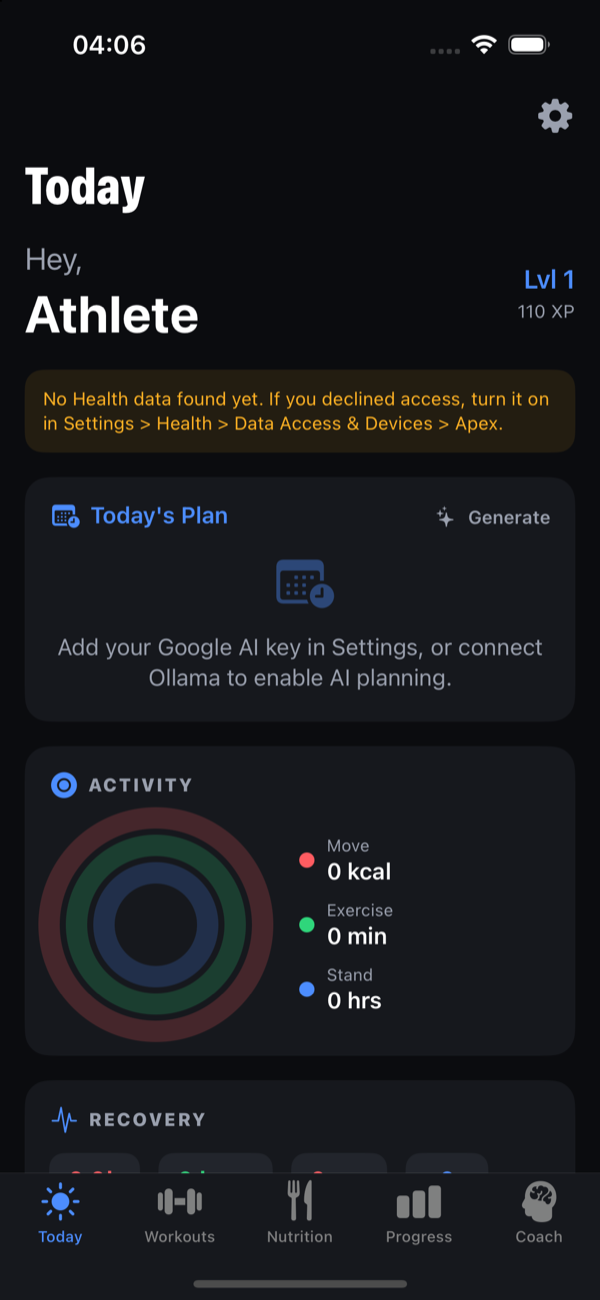
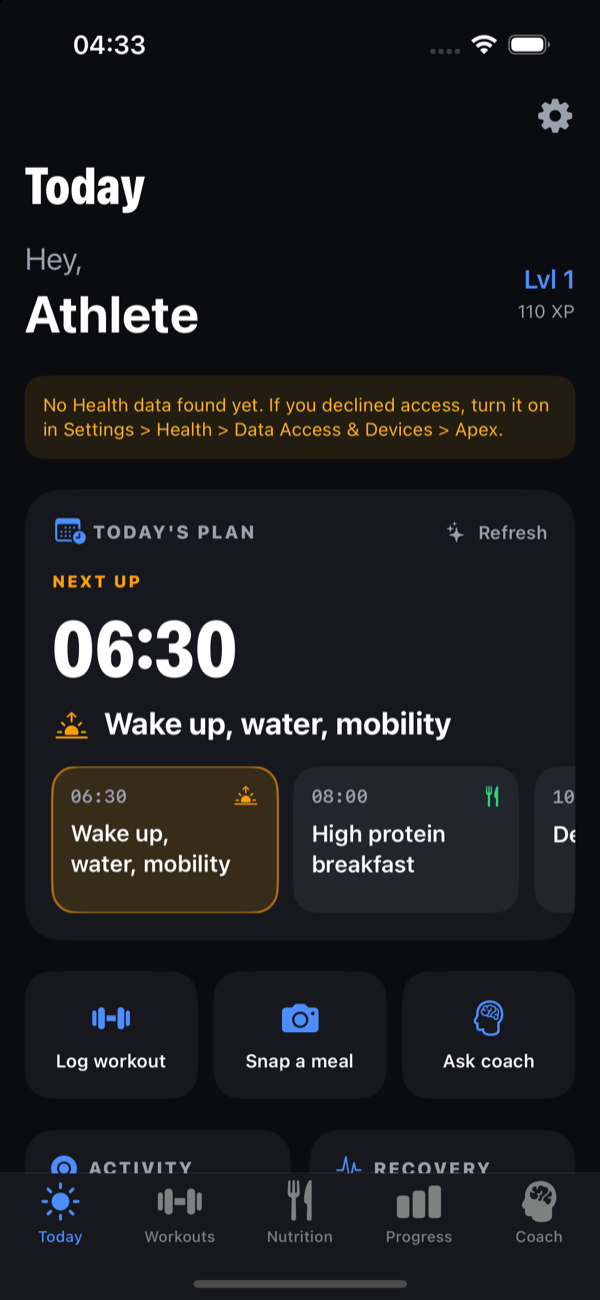
README: dashboard, provider picker, new figure and heat scale screenshots

diff --git a/README.md b/README.md
@@ -6,7 +6,7 @@ A native iOS app that combines Apple Watch health data, workout and meal logging
 
 | Tab | What the code does |
 |---|---|
-| **Today** | Activity rings, sleep / HRV / resting HR, AI-generated daily plan shown as a timeline, focus timer, today's calendar events, recent workouts and meals |
+| **Today** | A dashboard: the next block of your day with a swipeable plan, quick actions (log workout, snap a meal, ask the coach), tiles for activity, recovery, nutrition and training that open detail sheets, the focus timer and your next calendar event |
 | **Workouts** | Log tennis and gym sessions, import workouts from Apple Watch, weekly planned vs actual schedule, muscle recovery list |
 | **Nutrition** | Log a meal from a photo or a text description and get calorie and macro estimates from the AI |
 | **Progress** | XP and level, workout and meal streaks, all-time stats, achievements, "Muscles Worked" heatmap (sets per muscle group) |
@@ -39,7 +39,7 @@ Light mode (the app follows the system setting):
   <img src="docs/screenshots/muscles-worked-light.png" width="190" alt="Muscles Worked heatmap, light mode">
 </p>
 
-Taken on the iOS 18.0 simulator, so there is no Health data (rings and recovery numbers read 0 or "No data") and no API key. The Workouts, Progress and Muscles Worked screens show one logged gym workout: bench press, pull-up and back squat, 3 sets each. The body figure on the heatmap is placeholder art built from simple shapes.
+Taken on the iOS 18.0 simulator, so there is no Health data (rings and recovery numbers read 0 or "No data") and no API key. The Workouts, Progress and Muscles Worked screens show one logged gym workout: bench press, pull-up and back squat, 3 sets each. The plan on the Today screenshots is a hand-written sample, not AI output, because no API key was set. The Settings screenshot shows the provider picker with OpenAI selected and no key.
 
 ## AI services
 
@@ -89,12 +89,12 @@ Add your name, then choose an AI provider and add its key in Settings.
 ## Status
 
 - Builds with Xcode 27.2 for the iOS 18.0 simulator.
-- Unit tests: 34 run, 34 pass, 0 fail (iOS 18.0 simulator). Run them ad-hoc signed, because the Keychain test needs an entitlement that unsigned builds lack: `xcodebuild test -project Apex.xcodeproj -scheme Apex -destination 'platform=iOS Simulator,name=<your simulator>' CODE_SIGN_IDENTITY=- CODE_SIGNING_ALLOWED=YES CODE_SIGNING_REQUIRED=NO`. With `CODE_SIGNING_ALLOWED=NO` the Keychain test fails (last unsigned run: 21 tests, 4 failures, all that test). They cover the data and logic layer only: levels, streaks, XP, achievements, muscle tracker, exercise list, meal JSON parsing, AI consent gate, error messages, Keychain storage and migration, and missing-Health-data handling, that every Health type the app reads is in the permission list, the muscle figure regions, the heat scale, and each AI provider's request and reply handling (offline).
+- Unit tests: 35 run, 35 pass, 0 fail (iOS 18.0 simulator). Run them ad-hoc signed, because the Keychain test needs an entitlement that unsigned builds lack: `xcodebuild test -project Apex.xcodeproj -scheme Apex -destination 'platform=iOS Simulator,name=<your simulator>' CODE_SIGN_IDENTITY=- CODE_SIGNING_ALLOWED=YES CODE_SIGNING_REQUIRED=NO`. With `CODE_SIGNING_ALLOWED=NO` the Keychain test fails (last unsigned run: 21 tests, 4 failures, all that test). They cover the data and logic layer only: levels, streaks, XP, achievements, muscle tracker, exercise list, meal JSON parsing, AI consent gate, error messages, Keychain storage and migration, and missing-Health-data handling, that every Health type the app reads is in the permission list, the muscle figure regions, the heat scale, each AI provider's request and reply handling (offline), and which plan block is next.
 - Not covered by tests and not verified by me: HealthKit and Apple Watch data, the 8pm notification, camera, calendar, GitHub, and real calls to Gemini, OpenAI, Claude or Ollama. These need a device, a key or a local server.
 - No XP for completing the daily plan, closing rings or logging sleep.
 - The calorie and protein targets are rough rules (weight x 33 kcal, weight x 1.8 g), not a validated formula, and are 0 when Health has no weight.
 - The sleep score is a simple home-made formula from sleep hours and HRV.
-- Seen on a simulator screen (iOS 18.0): app icon, first-run Health, notification and calendar prompts, the check-in with Health denied, the Today notice, the Workouts muscle recovery list, Nutrition, Progress, the Muscles Worked heatmap, Coach (the banner shows No Data until there is a sleep or HRV reading) and Settings (including the Gemini sharing switch). Both light and dark mode were checked on Today, Progress, Muscles Worked, Coach and Settings; the other screens (check-ins, workout logging sheets, camera) were not checked in light mode. Not seen: any real AI reply.
+- Seen on a simulator screen (iOS 18.0): app icon, first-run Health, notification and calendar prompts, the check-in with Health denied, the Today notice, the Workouts muscle recovery list, Nutrition, Progress, the Muscles Worked heatmap, Coach (the banner shows No Data until there is a sleep or HRV reading) and Settings (including the Gemini sharing switch). Both light and dark mode were checked on Today, Progress, Muscles Worked, Coach and Settings; the other screens (check-ins, workout logging sheets, camera) were not checked in light mode. The Today dashboard, the new figure, the blue to red heat scale and the provider picker were seen in both modes except Settings, which was seen in dark mode. Not seen: any real AI reply.
 - Not yet done for an App Store release: a hosted privacy policy URL (the text is in PRIVACY.md), a support URL (the GitHub issues page can serve), App Store listing and TestFlight setup (needs an Apple Developer account and a team ID).
 
 History and design notes are in [DEVLOG.md](DEVLOG.md).

diff --git a/DEVLOG.md b/DEVLOG.md
@@ -267,7 +267,8 @@ The reference app used a fully anatomical illustration with separately-colored q
 - Replaced the capsule muscle figure with an original anatomical figure (pure CoreGraphics shapes, front and back).
 - Heatmap scale is now blue to red; 0 sets stays neutral.
 - AI providers: Gemini, OpenAI, Claude and Local, each with its own key, model and consent. One request builder and parser per provider, tested offline.
-- 24 unit tests on the logic layer. Still unverified: anything needing HealthKit data, a key, or a device.
+- Today is now a dashboard (next-up hero with a snapping plan carousel, quick actions, tiles that open sheets). Motion rules used: feedback is immediate, springs can be interrupted, Reduce Motion is respected, haptics only on selection. Other tabs still use the older list layout.
+- 35 unit tests on the logic layer. Still unverified: anything needing HealthKit data, a key, or a device.
 
 ---
 
